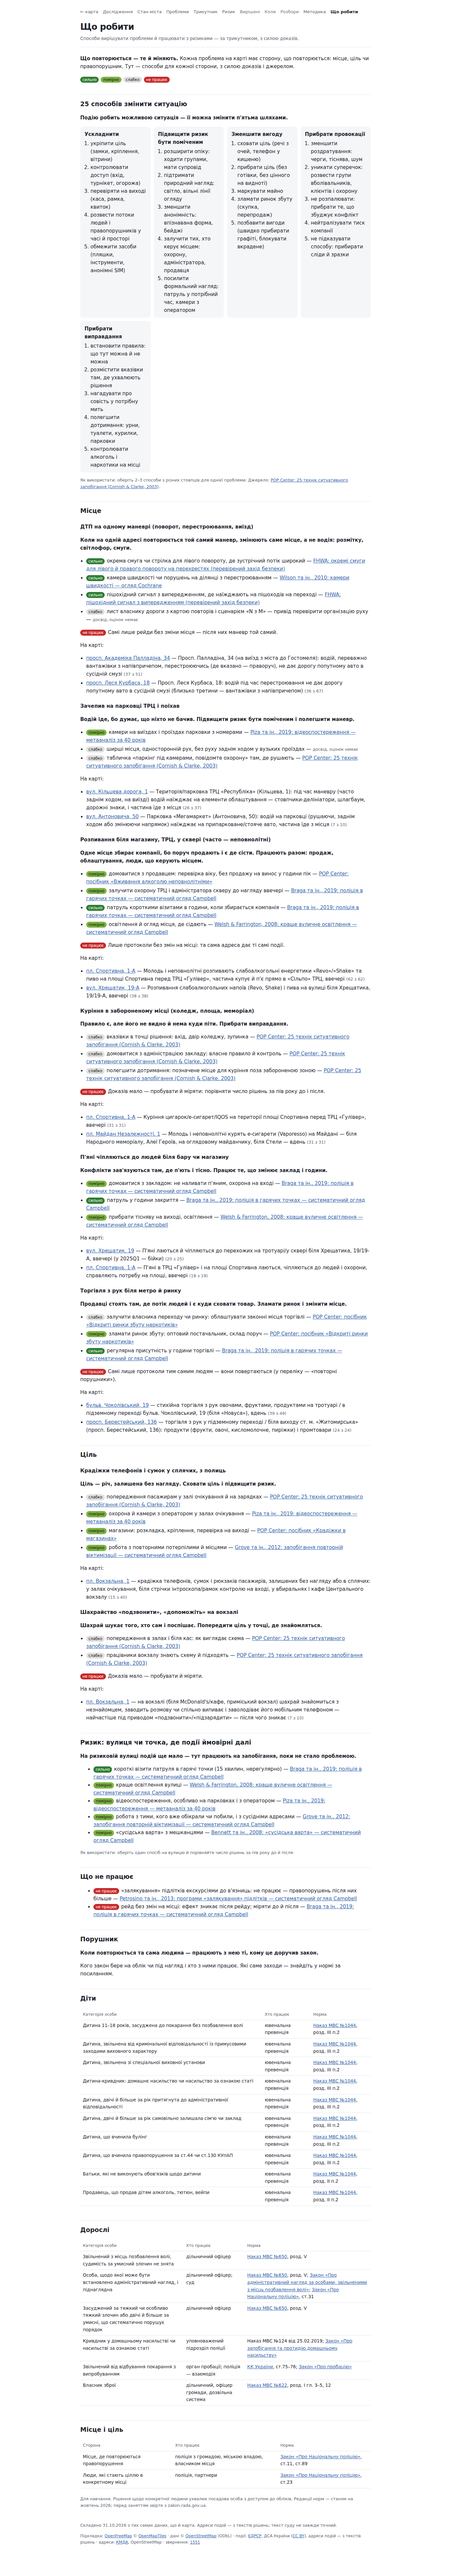
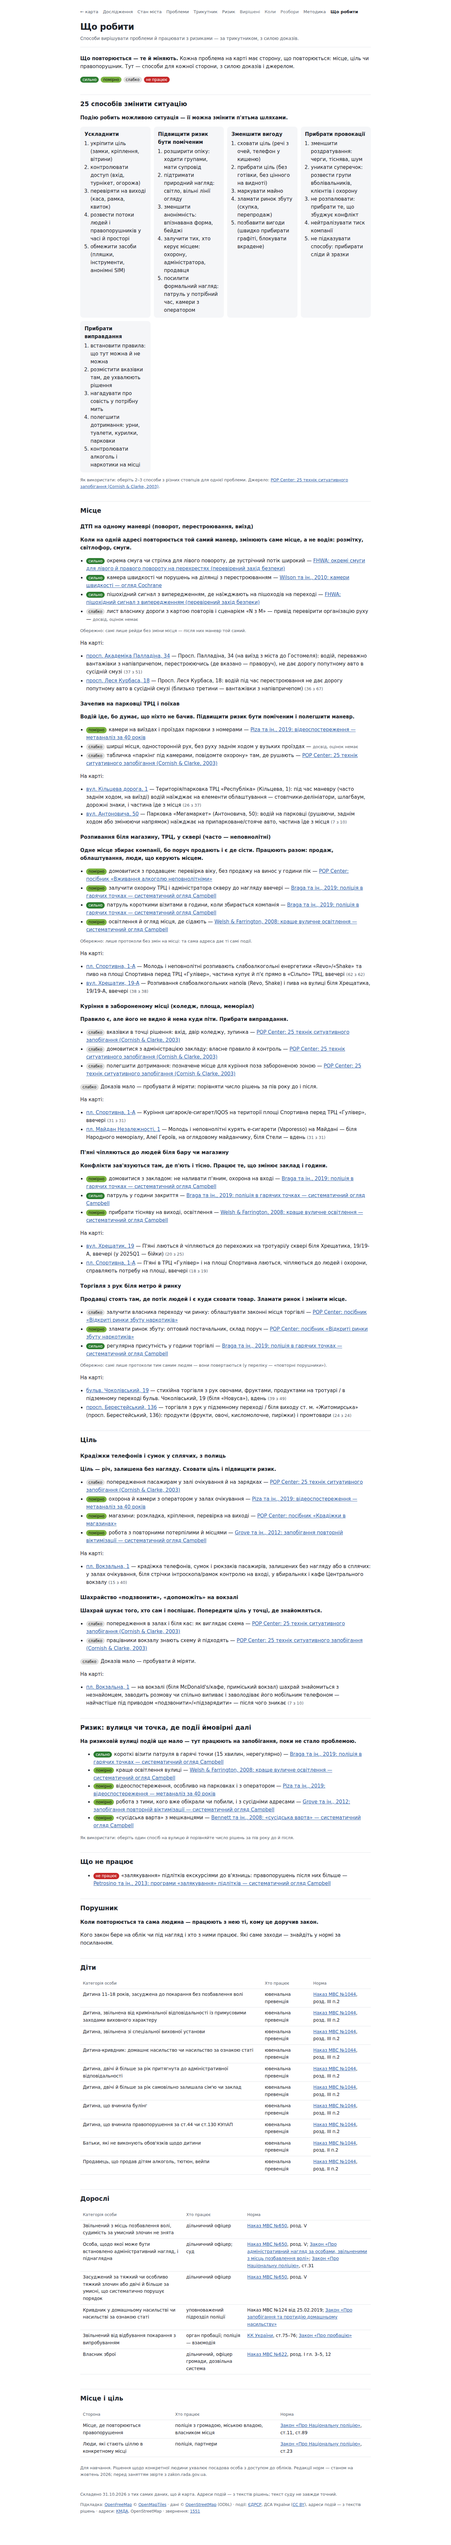
Знімки сірого шару й правок у znimky-40; ZVIT-40: друге оновлення карти успішне

Changed region(s): [[0.1845, 0.0, 0.7994, 0.9977], [0.6764, 0.0312, 0.7994, 0.1247], [0.5227, 0.0, 0.6457, 0.0935]]

diff --git a/ZVIT-40.md b/ZVIT-40.md
@@ -18,7 +18,8 @@ Claude Code дописує сюди після кожного етапу й кр
 Підсумок запусків: «Оновлення карти» 41215233069 — успішно; перевірка трьох
 правок 41215438363 — зелена; перевірка сірого шару 41215966744 — `check_build`
 зелений (зокрема `siryi_shar`). Друге «Оновлення карти» з `main` (етап 2, правки,
-сірий шар) — **41217759935**, запустив Андрій.
+сірий шар) — **41217759935**, запустив Андрій, — успішно: усе на сайті. Знімки сірого
+шару й перезняті після правок — `doslidzhennya/znimky-40/` (доповнення в README).
 
 Було так: «Оновлення карти» **41215233069** (з `b7cb323`,
 без етапу 2 і правок); «Перевірка збірки» **41215438363** (три правки) і

diff --git a/doslidzhennya/znimky-40/README.md b/doslidzhennya/znimky-40/README.md
@@ -17,3 +17,8 @@
 | `4d-kartka-pl-vokzalna-1-*` | пл. Вокзальна, 1: картка адреси, ціль по видах |
 | `5-shcho-robyty-*`, `5-trykutnyk-pk.png` | сторінки «Що робити» і «Трикутник» |
 | `6-kiosk-*-1920.png`, `6-ohliad-chernetka-pk.png` | кіоск (заставка, панель) і чернетка огляду міста |
+
+**Доповнення 31.10, вечір** (запуск **41215966744**, `de06811`, після правок центрального чату):
+`siryi-*` — сірий шар фільтрів (соти, кільця, адреси з «Ціль: телефон»; телефон з «Порушник»);
+`6-kiosk-panel-1920.png`, `5-shcho-robyty-pk.png`, `4d-kartka-problemy-vasylkivska-30.png` — перезнято після правок
+(ширша панель кіоску, мітки «Що робити», усі адреси місця в заголовку картки).
